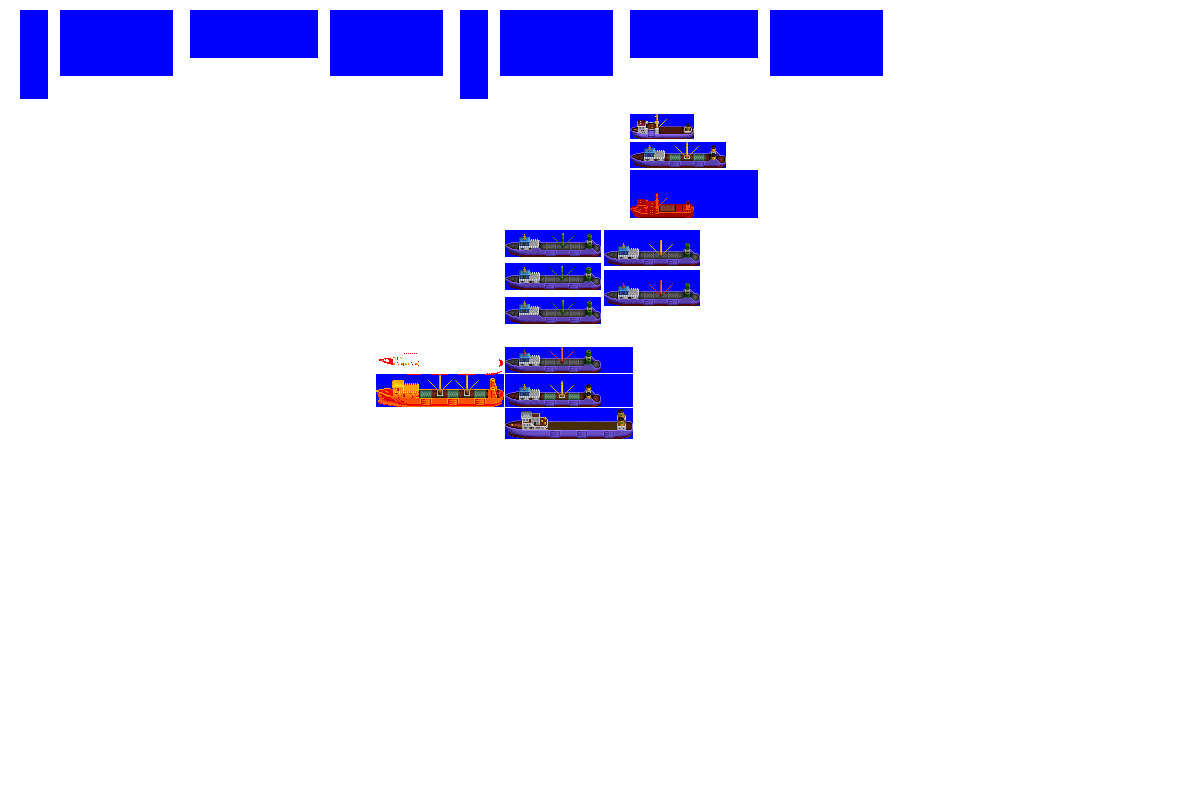
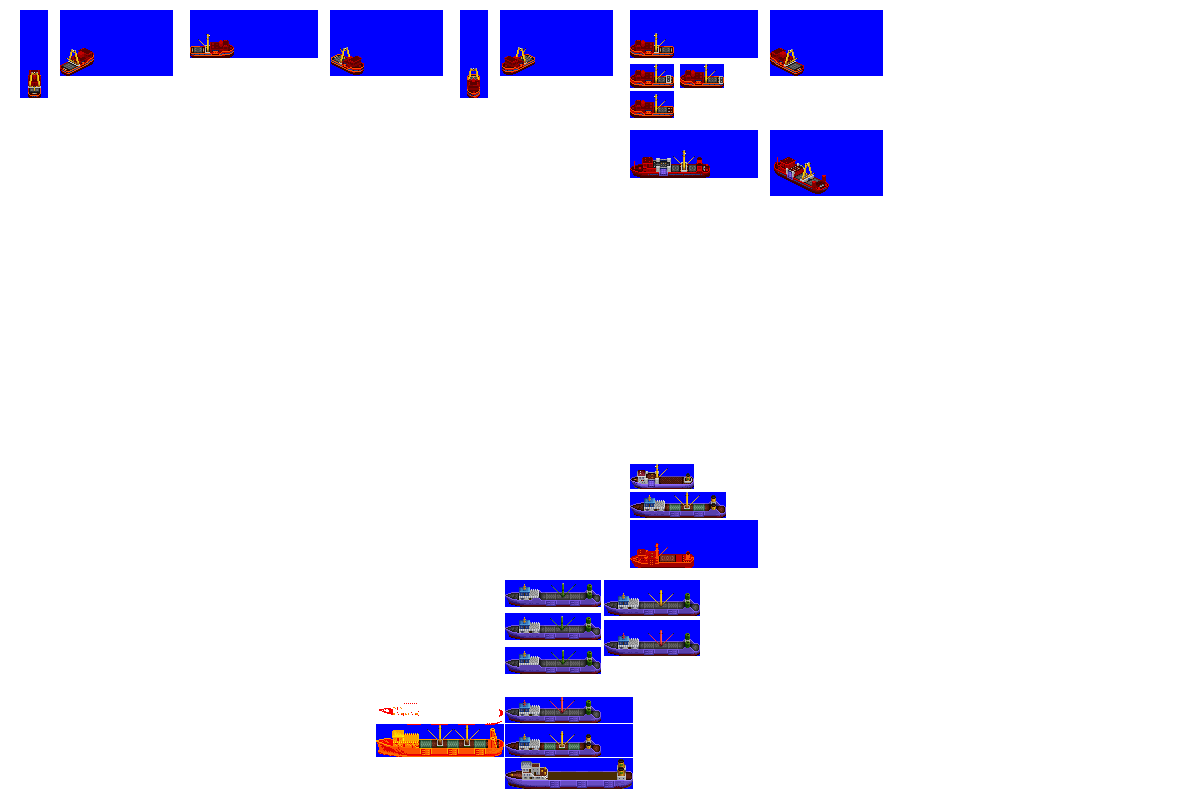
Change: sprites complete for gen 3A reefer

diff --git a/src/vehicles/reefers.py b/src/vehicles/reefers.py
@@ -9,7 +9,7 @@ def main():
         subtype="A",
         hull="ShipHouseForward",
         effect_type="EFFECT_SPRITE_DIESEL",
-        sprites_complete=False,
+        sprites_complete=True,
     )
 
     ship = Reefer(
